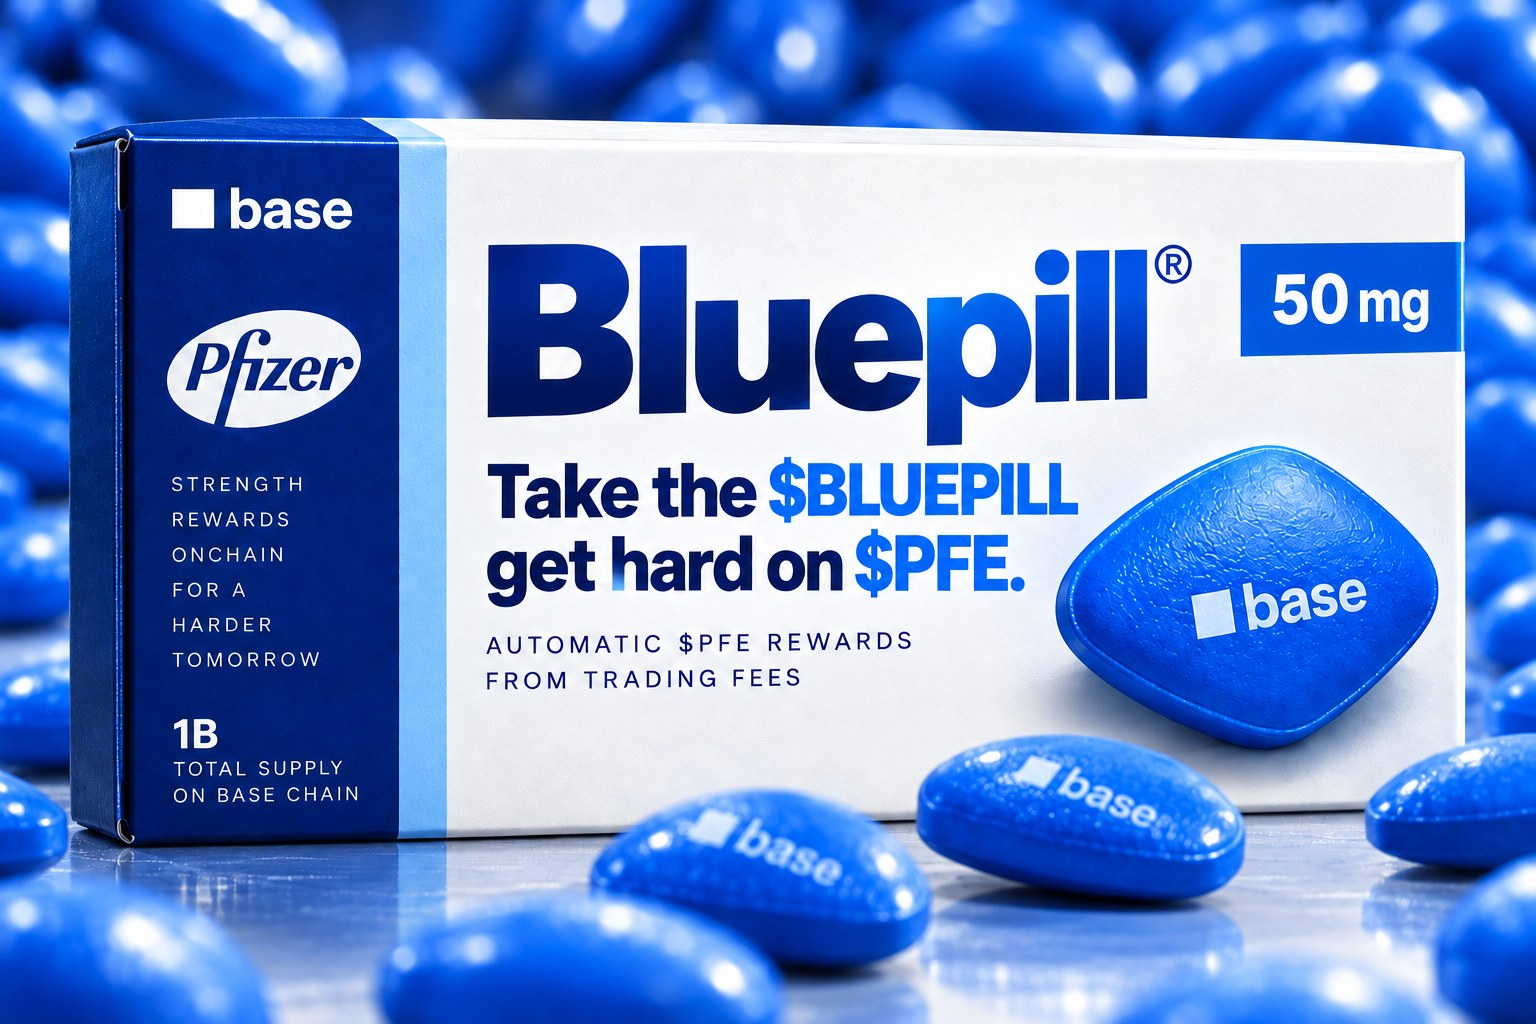
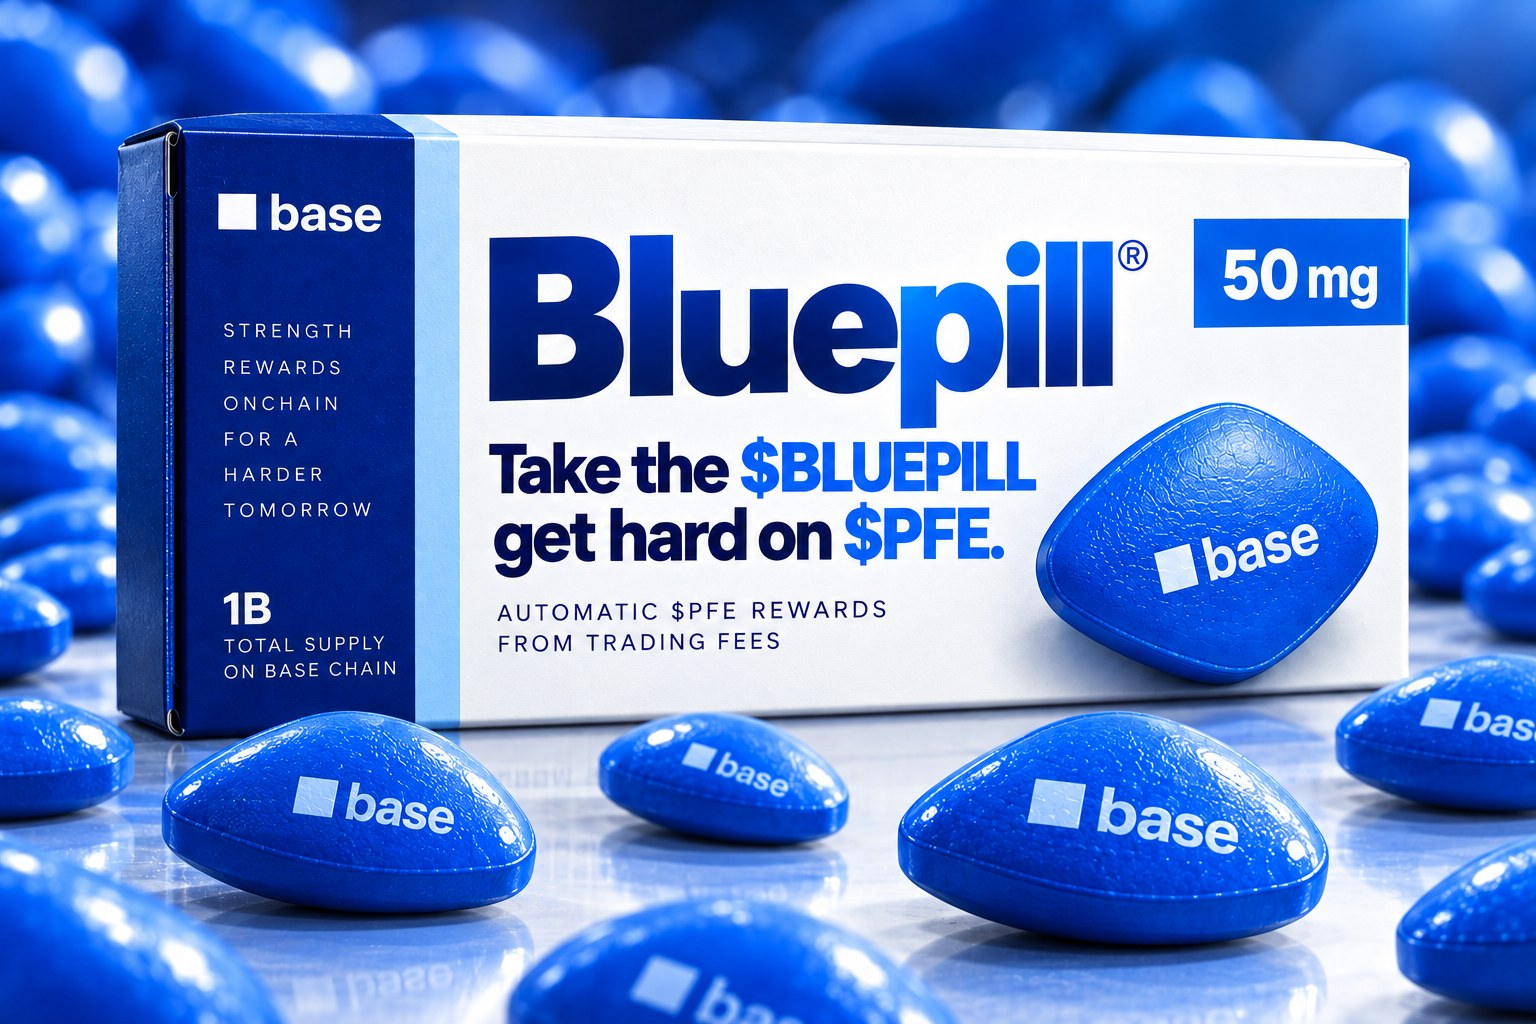
Take the new header artwork, and set the window title
The owner uploaded a replacement images/bluepill_header.png. Moved to
images/src/ where the originals live, and everything the page serves
re-derived from it: hero.jpg, hero.webp and the letterboxed 1200×630
social.jpg.

Still 1536×1024, so the frame's 3:2 and the bottom fade both hold unchanged
— checked before assuming it, because a different ratio would have meant
object-fit cover silently cropping the carton's ends. Rendered at 1440 and
390 to confirm the max-height cap still clears the box: the carton sits
slightly higher in this composition than the last one, and the cap trims
reflective floor as intended.

--hero-ground resampled from the new file's own top and bottom bands:
#3a72d7 → #3f6dc5. It is what shows before the photograph loads and
wherever the fade reaches, so carrying the old value over would have put a
mismatched blue behind the new picture.

Title is now "Bluepill — Take the $BLUEPILL, get hard on $PFEc", as asked.
og:title is left as the shorter "Bluepill — $BLUEPILL", which is what a
share card wants; say the word if it should match.

Worth noting rather than acting on: the new artwork has dropped the Pfizer
wordmark from the carton's side panel — it reads just "base" now. The
footer's non-affiliation notice stays. The page is still a pharmaceutical
carton called Bluepill at 50mg, and the reward token's own name() is
literally "Pfizer Inc", so the notice is if anything doing more work now
that the logo is gone and the ticker is the explicit link.
[…]

diff --git a/index.html b/index.html
@@ -3,7 +3,7 @@
 <head>
 <meta charset="utf-8">
 <meta name="viewport" content="width=device-width, initial-scale=1">
-<title>Bluepill — hold $BLUEPILL, earn $PFEc</title>
+<title>Bluepill — Take the $BLUEPILL, get hard on $PFEc</title>
 <meta name="description" content="Bluepill 50mg. 1,000,000,000 $BLUEPILL on Base. Every trade routes fees to the rewards index — hold $BLUEPILL and earn $PFEc, the platform's tokenized reward asset. Not affiliated with Pfizer Inc.">
 
 <!-- The social card. Three things here are not stylistic:
@@ -51,10 +51,10 @@
 
      The ?v= below is what makes a browser let go of the icon it has cached;
      node scripts/stamp.mjs moves all of them together. -->
-<link rel="icon" href="favicon.ico?v=23" sizes="any">
-<link rel="icon" type="image/png" href="images/favicon.png?v=23">
-<link rel="apple-touch-icon" href="images/apple-touch-icon.png?v=23">
-<link rel="manifest" href="site.webmanifest?v=23">
+<link rel="icon" href="favicon.ico?v=24" sizes="any">
+<link rel="icon" type="image/png" href="images/favicon.png?v=24">
+<link rel="apple-touch-icon" href="images/apple-touch-icon.png?v=24">
+<link rel="manifest" href="site.webmanifest?v=24">
 
 <!-- One face, five weights. 800 is not decoration: the Bluepill wordmark and
      the figures are set in it, and Inter's 700 is visibly lighter than the
@@ -74,7 +74,7 @@
       media="print" onload="this.media='all'">
 <noscript><link rel="stylesheet" href="https://fonts.googleapis.com/css2?family=Inter:wght@400;500;600;700;800&display=swap"></noscript>
 
-<link rel="stylesheet" href="assets/css/styles.css?v=23">
+<link rel="stylesheet" href="assets/css/styles.css?v=24">
 </head>
 <body>
 
@@ -165,14 +165,14 @@
 
   <div class="hero__frame">
     <picture>
-      <source srcset="images/hero.webp?v=23" type="image/webp">
+      <source srcset="images/hero.webp?v=24" type="image/webp">
       <!-- 1536x1024 as delivered, and .hero__frame is set to that same 3:2,
            so nothing is cropped at any width. alt="" because the artwork's
            own wording is already the <h1> above — a screen reader that
            described it too would read the pitch twice.
            fetchpriority=high: it is the largest paint and the only thing
            above the fold. -->
-      <img class="hero__img" src="images/hero.jpg?v=23" alt=""
+      <img class="hero__img" src="images/hero.jpg?v=24" alt=""
            width="1536" height="1024" fetchpriority="high" decoding="async">
     </picture>
   </div>
@@ -482,7 +482,7 @@
 <!-- ?v= is the cache buster: run `node scripts/stamp.mjs` on every deploy,
      which moves every ?v= here and `version` in config.js together. Skip it
      and a CDN keeps serving the previous config.js and app.js. -->
-<script src="config.js?v=23"></script>
-<script src="assets/js/app.js?v=23"></script>
+<script src="config.js?v=24"></script>
+<script src="assets/js/app.js?v=24"></script>
 </body>
 </html>

diff --git a/assets/css/styles.css b/assets/css/styles.css
@@ -36,7 +36,7 @@
      the delivered files, not picked by eye: --hero-ground is the mean of the
      header's own top and bottom border bands, --page the mean of the pill
      field's top edge. A guessed value here reads as a seam. */
-  --hero-ground:  #3a72d7;
+  --hero-ground:  #3f6dc5;
   --page:         #2b5ebf;
   /* The scrim the footer lays over the pill field. LIGHT, not dark, for two
      reasons that agreed with each other: the mockup's lower band is white
@@ -130,8 +130,8 @@ a { color: inherit; text-decoration: none; }
   inset: 0;
   z-index: -1;
   background: var(--page) center / cover no-repeat;
-  background-image: image-set(url('../../images/bg.webp?v=23') type('image/webp'),
-                              url('../../images/bg.jpg?v=23') type('image/jpeg'));
+  background-image: image-set(url('../../images/bg.webp?v=24') type('image/webp'),
+                              url('../../images/bg.jpg?v=24') type('image/jpeg'));
 }
 
 /* ---------- Top bar --------------------------------------------------- */

diff --git a/config.js b/config.js
@@ -21,7 +21,7 @@ window.SITE_CONFIG = {
      a browser actually has rather than guessing at a cache. Bump it together
      with the ?v= on the script tags in index.html whenever you deploy —
      `node scripts/stamp.mjs` moves all of them at once. */
-  version: '23',
+  version: '24',
 
   /* ---- Token ---------------------------------------------------------- */
 
